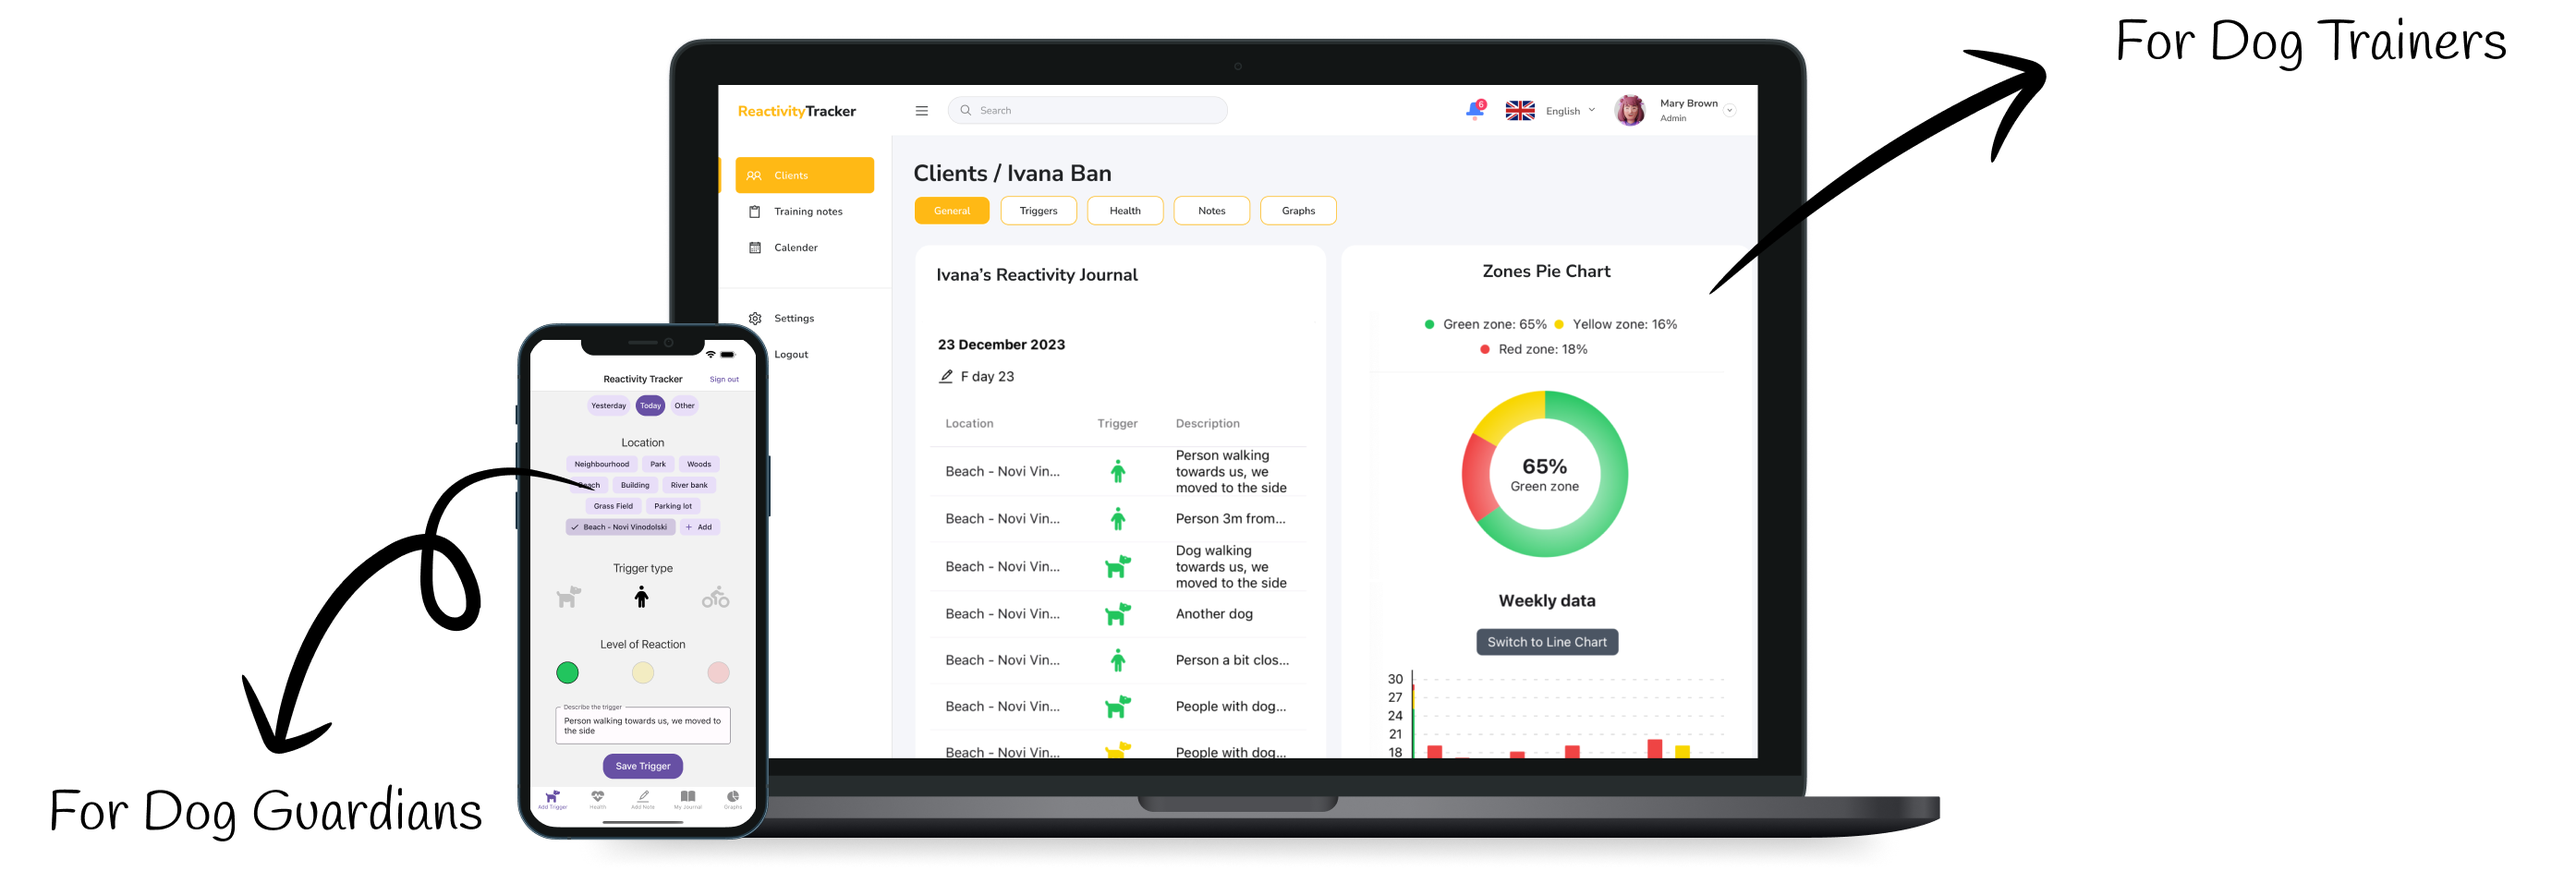
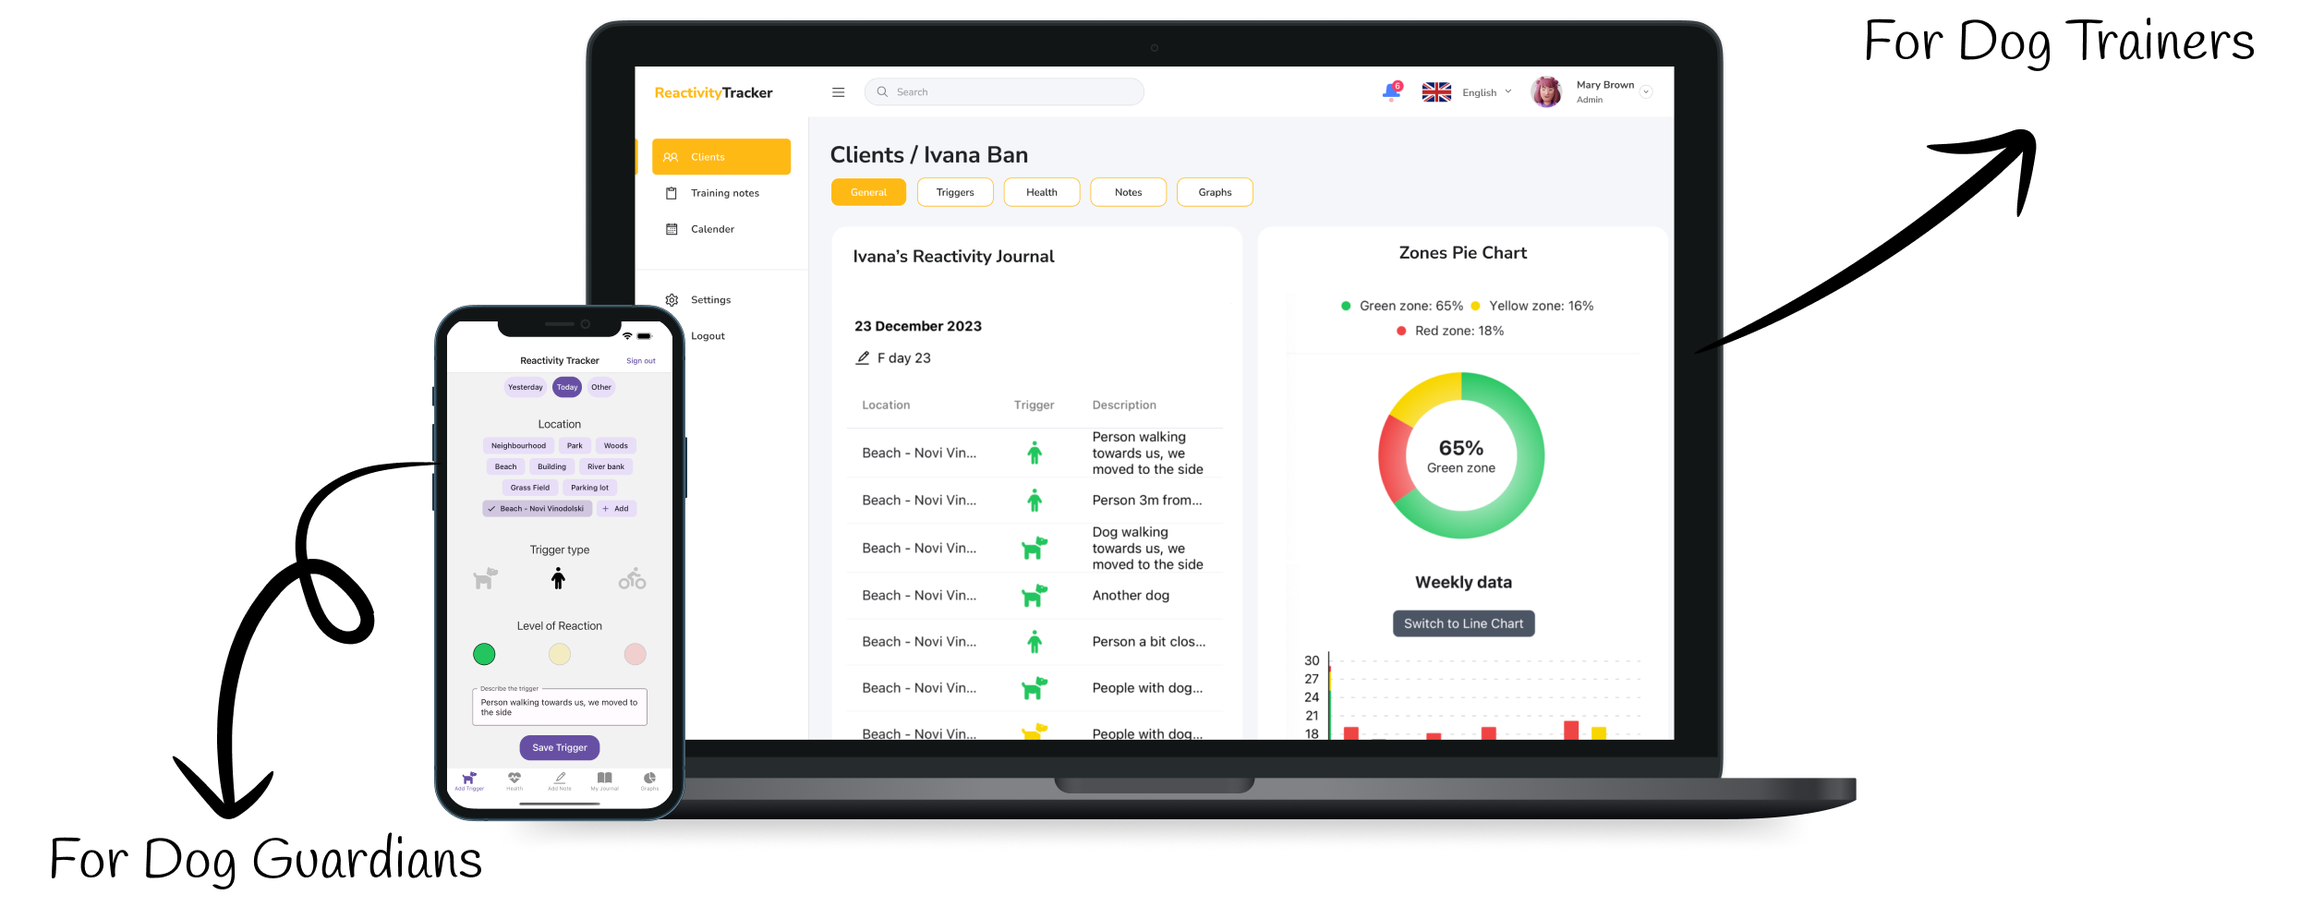
mobile version of hero image added

diff --git a/app/components/marketing/hero-section.tsx b/app/components/marketing/hero-section.tsx
@@ -34,12 +34,22 @@ export function HeroSection() {
         <div className="relative mt-16">
           <div className="flex justify-center">
             <div className="relative w-full max-w-[1200px]">
+              {/* Desktop Image */}
               <Image
                 src="/images/hero-visual.png"
                 alt="Reactivity Tracker Dashboard"
                 width={1200}
                 height={675}
-                className="rounded-lg"
+                className="rounded-lg hidden md:block"
+                priority
+              />
+              {/* Mobile Image */}
+              <Image
+                src="/images/hero-visual-mobile.png"
+                alt="Reactivity Tracker Dashboard"
+                width={1200}
+                height={675}
+                className="rounded-lg block md:hidden"
                 priority
               />
             </div>
